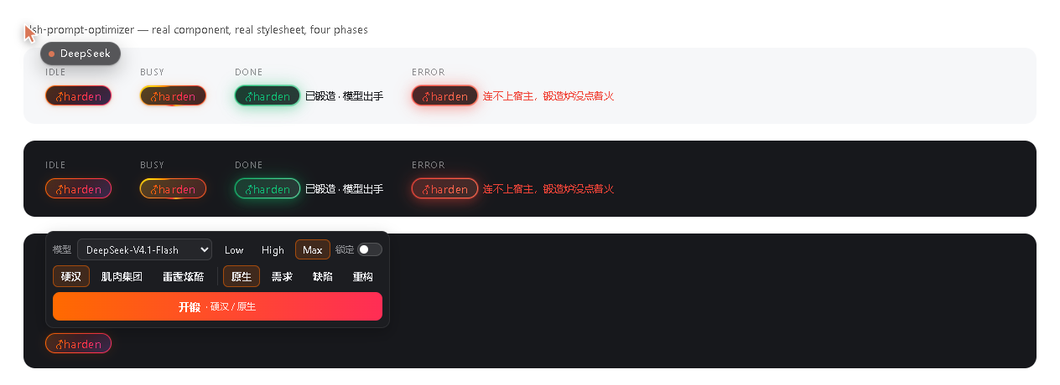
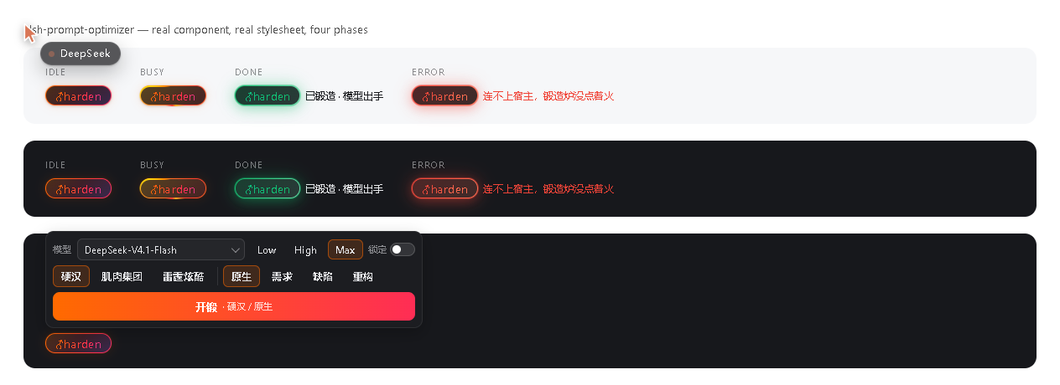
feat: replace the native model select with a themed dropdown
- dark-mode-safe background and text colors

- provider groups, selected check and outside-click/Escape close

- remove the native white option list

Changed region(s): [[0.0623, 0.5922, 0.4047, 0.6857], [0.3425, 0.7481, 0.4047, 0.8416], [0.1557, 0.7792, 0.2802, 0.8104]]

diff --git a/client.js b/client.js
@@ -470,11 +470,28 @@ window.__ModuleLoader__.load({
       '.dshPo_sep{flex:0 0 auto;width:1px;align-self:stretch;margin:2px 2px;border-radius:1px;background:rgba(255,255,255,.10)}',
       '.dshPo_rowLabel{flex:0 0 auto;font-size:11px;opacity:.55;letter-spacing:.3px}',
       '.dshPo_modelRow{width:100%;gap:6px}',
-      '.dshPo_select{flex:1 1 auto;min-width:140px;max-width:340px;height:26px;padding:0 6px;border-radius:6px;',
-      'border:1px solid rgba(255,255,255,.12);background:rgba(255,255,255,.04);',
-      'color:var(--dsw-alias-label-primary,inherit);font:inherit;font-size:12px;cursor:pointer}',
-      '.dshPo_select:focus-visible{outline:2px solid var(--dsw-alias-brand-primary,#ff6a00);outline-offset:1px}',
-      '.dshPo_select:disabled{opacity:.5;cursor:not-allowed}',
+      '.dshPo_modelField{position:relative;flex:1 1 auto;min-width:200px;max-width:340px}',
+      '.dshPo_modelButton{display:flex;align-items:center;justify-content:space-between;gap:6px;width:100%;height:26px;padding:0 8px;border-radius:6px;',
+      'border:1px solid rgba(255,255,255,.12);background:rgba(255,255,255,.04);color:var(--dsw-alias-label-primary,inherit);',
+      'font:inherit;font-size:12px;text-align:left;white-space:nowrap;overflow:hidden;text-overflow:ellipsis;cursor:pointer;',
+      'transition:background .12s ease,border-color .12s ease}',
+      '.dshPo_modelButton:hover{background:rgba(255,255,255,.07);border-color:rgba(255,255,255,.18)}',
+      '.dshPo_modelButton:focus-visible{outline:2px solid var(--dsw-alias-brand-primary,#ff6a00);outline-offset:1px}',
+      '.dshPo_modelButton:disabled{opacity:.5;cursor:not-allowed}',
+      '.dshPo_modelButton::after{content:"";flex:0 0 auto;width:6px;height:6px;border-right:1.5px solid currentColor;border-bottom:1.5px solid currentColor;',
+      'transform:rotate(45deg) translateY(-2px);opacity:.55}',
+      '.dshPo_modelButtonName{overflow:hidden;text-overflow:ellipsis;white-space:nowrap}',
+      '.dshPo_modelList{position:absolute;top:calc(100% + 4px);left:0;right:0;z-index:50;max-height:220px;overflow-y:auto;padding:4px;',
+      'border-radius:8px;border:1px solid rgba(255,255,255,.12);background:var(--dsw-alias-bg-layer-2,var(--dsw-alias-bg-layer-1,#26272c));',
+      'color:var(--dsw-alias-label-primary,inherit);box-shadow:0 8px 20px rgba(0,0,0,.28);scrollbar-width:thin}',
+      '.dshPo_modelGroup{display:block;padding:5px 6px 2px;font-size:10px;letter-spacing:.4px;text-transform:uppercase;opacity:.45;white-space:nowrap}',
+      '.dshPo_modelOption{display:flex;align-items:center;justify-content:space-between;gap:8px;width:100%;height:26px;padding:0 8px;border:0;border-radius:5px;',
+      'background:transparent;color:inherit;font:inherit;font-size:12px;text-align:left;cursor:pointer;white-space:nowrap;overflow:hidden;text-overflow:ellipsis}',
+      '.dshPo_modelOption:hover{background:rgba(255,106,0,.10)}',
+      '.dshPo_modelOption[data-active=true]{background:rgba(255,106,0,.16)}',
+      '.dshPo_modelOptionName{overflow:hidden;text-overflow:ellipsis;white-space:nowrap}',
+      '.dshPo_modelOptionCheck{flex:0 0 auto;font-size:10px;opacity:.85}',
+      '.dshPo_modelOptionStatic{padding:6px 8px;opacity:.6}',
       '.dshPo_effortChips{display:flex;flex:0 1 auto;gap:4px;align-items:center}',
       '.dshPo_effortChips .dshPo_chip{height:24px;padding:0 8px;font-size:11px}',
       '.dshPo_lockWrap{display:inline-flex;align-items:center;gap:4px;flex:0 0 auto}',
@@ -708,10 +725,14 @@ window.__ModuleLoader__.load({
       const [models, setModels] = react.useState([]);
       const [selection, setSelection] = react.useState(() => readStoredModel());
       const [lockSnapshot, setLockSnapshot] = react.useState(() => readStoredLock());
+      const [modelOpen, setModelOpen] = react.useState(false);
       const abortRef = react.useRef(null);
       // The pill and its menu share one positioned root; the menu is a sibling
       // so the pill stays mounted (and keeps focus) while the menu is open.
       const rootRef = react.useRef(null);
+      // The custom model dropdown anchors to its own field, so a click elsewhere
+      // in the menu can close it without closing the whole picker.
+      const modelFieldRef = react.useRef(null);
 
       // Abandon one in-flight rewrite when the entry unmounts, and clear the
       // transient note timer so a settled state cannot be overwritten later.
@@ -774,6 +795,38 @@ window.__ModuleLoader__.load({
         }
         return undefined;
       }, [picking]);
+
+      // The model dropdown is a second, smaller layer: Escape or a click outside
+      // the field closes it without closing the whole picker.
+      react.useEffect(() => {
+        if (!modelOpen) return undefined;
+        const onKey = (event) => {
+          if (event !== null && typeof event === 'object' && event.key === 'Escape') setModelOpen(false);
+        };
+        const onDown = (event) => {
+          const field = modelFieldRef.current;
+          const target = event !== null && typeof event === 'object' ? event.target : null;
+          if (field !== null && field !== undefined && typeof field.contains === 'function' && target !== null && field.contains(target)) return;
+          setModelOpen(false);
+        };
+        try {
+          if (typeof document !== 'undefined' && document !== null && typeof document.addEventListener === 'function') {
+            document.addEventListener('keydown', onKey);
+            document.addEventListener('pointerdown', onDown);
+            return () => {
+              document.removeEventListener('keydown', onKey);
+              document.removeEventListener('pointerdown', onDown);
+            };
+          }
+        } catch {
+          /* no document: nothing to listen on */
+        }
+        return undefined;
+      }, [modelOpen]);
+
+      react.useEffect(() => {
+        if (!picking || lockSnapshot !== null) setModelOpen(false);
+      }, [picking, lockSnapshot]);
 
       const empty = typeof draft !== 'string' || draft.trim() === '';
       const busy = phase === 'busy';
@@ -1027,7 +1080,11 @@ window.__ModuleLoader__.load({
         rememberLock(snapshot);
       };
 
-      const selectionValue = selection === null ? '' : JSON.stringify([selection.provider, selection.model]);
+      const selectedModel = models.find(
+        (item) => selection !== null && item.provider === selection.provider && item.model === selection.model,
+      );
+      const selectionLabel =
+        selectedModel !== undefined ? selectedModel.name : selection === null ? translate('model.empty') : selection.model;
       const modelOptions = [];
       {
         const groups = new Map();
@@ -1036,21 +1093,36 @@ window.__ModuleLoader__.load({
           groups.get(item.provider).items.push(item);
         }
         for (const group of groups.values()) {
-          modelOptions.push(
-            jsx('optgroup', {
-              key: 'provider:' + group.items[0].provider,
-              label: group.name,
-              children: group.items.map((item) =>
-                jsx('option', { key: item.provider + '/' + item.model, value: JSON.stringify([item.provider, item.model]), children: item.name }),
-              ),
-            }),
-          );
+          modelOptions.push(jsx('span', { key: 'provider:' + group.items[0].provider, className: 'dshPo_modelGroup', children: group.name }));
+          for (const item of group.items) {
+            const active = selection !== null && selection.provider === item.provider && selection.model === item.model;
+            modelOptions.push(
+              jsxs('button', {
+                type: 'button',
+                key: item.provider + '/' + item.model,
+                className: 'dshPo_modelOption',
+                'data-model': item.provider + '/' + item.model,
+                'data-active': active ? 'true' : 'false',
+                role: 'option',
+                'aria-selected': active ? 'true' : 'false',
+                title: item.name,
+                onClick: () => {
+                  setModelOpen(false);
+                  void chooseModel(JSON.stringify([item.provider, item.model]));
+                },
+                children: [
+                  jsx('span', { className: 'dshPo_modelOptionName', children: item.name }),
+                  active ? jsx('span', { className: 'dshPo_modelOptionCheck', 'aria-hidden': 'true', children: '✓' }) : null,
+                ],
+              }),
+            );
+          }
         }
         if (modelOptions.length === 0 && selection !== null) {
-          modelOptions.push(jsx('option', { value: JSON.stringify([selection.provider, selection.model]), children: selection.model }));
+          modelOptions.push(jsx('span', { key: 'current', className: 'dshPo_modelOption dshPo_modelOptionStatic', children: selection.model }));
         }
         if (modelOptions.length === 0) {
-          modelOptions.push(jsx('option', { value: '', children: translate('model.empty') }));
+          modelOptions.push(jsx('span', { key: 'empty', className: 'dshPo_modelGroup', children: translate('model.empty') }));
         }
       }
 
@@ -1102,21 +1174,35 @@ window.__ModuleLoader__.load({
                 'data-dsh-prompt-optimizer': 'model-row',
                 children: [
                   jsx('span', { className: 'dshPo_rowLabel', children: translate('model.label') }),
-                  jsx('select', {
-                    className: 'dshPo_select',
-                    'data-dsh-prompt-optimizer': 'model-select',
-                    value: selectionValue,
-                    disabled: lockSnapshot !== null,
-                    'aria-label': translate('model.label'),
-                    title: translate('model.label'),
-                    onChange: (event) => {
-                      const value =
-                        event !== null && typeof event === 'object' && event.target !== null && typeof event.target === 'object'
-                          ? event.target.value
-                          : '';
-                      void chooseModel(value);
-                    },
-                    children: modelOptions,
+                  jsxs('span', {
+                    className: 'dshPo_modelField',
+                    'data-dsh-prompt-optimizer': 'model-field',
+                    ref: modelFieldRef,
+                    children: [
+                      jsxs('button', {
+                        type: 'button',
+                        className: 'dshPo_modelButton',
+                        'data-dsh-prompt-optimizer': 'model-button',
+                        disabled: lockSnapshot !== null,
+                        'aria-haspopup': 'listbox',
+                        'aria-expanded': modelOpen ? 'true' : 'false',
+                        'aria-label': translate('model.label'),
+                        title: translate('model.label'),
+                        onClick: () => {
+                          if (lockSnapshot === null) setModelOpen((open) => !open);
+                        },
+                        children: jsx('span', { className: 'dshPo_modelButtonName', children: selectionLabel }),
+                      }),
+                      modelOpen
+                        ? jsx('span', {
+                            className: 'dshPo_modelList',
+                            role: 'listbox',
+                            'data-dsh-prompt-optimizer': 'model-list',
+                            'aria-label': translate('model.label'),
+                            children: modelOptions,
+                          })
+                        : null,
+                    ],
                   }),
                   efforts.length === 0
                     ? null
